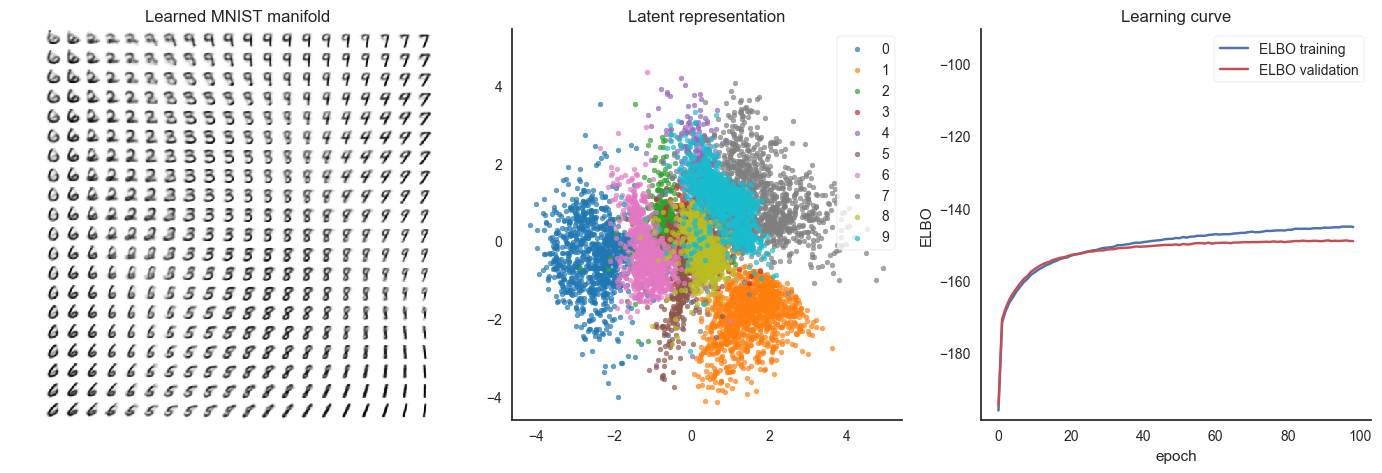
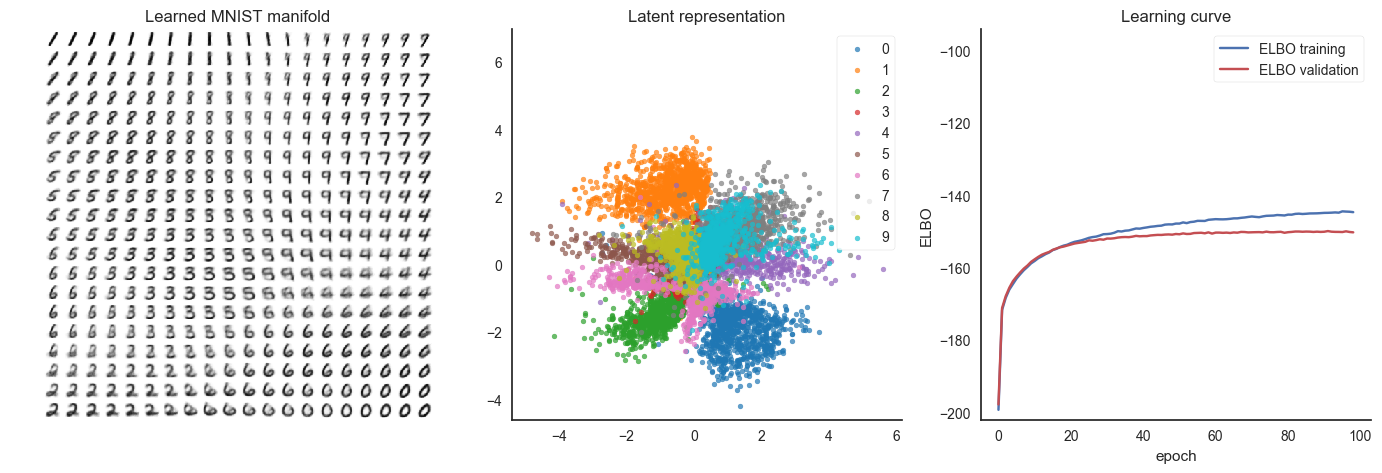
use keras to define layers

diff --git a/vae.py b/vae.py
@@ -9,6 +9,7 @@ import matplotlib as mpl
 import matplotlib.pyplot as plt
 from scipy.stats import norm
 
+from tensorflow.contrib.keras import layers
 from tensorflow.examples.tutorials.mnist import input_data
 
 
@@ -23,44 +24,41 @@ class VAE(object):
     The remaing architecture and algorithm is as close to the description in the paper as possible.
     """
 
-    def __init__(self, n_batch=100, n_input=784, n_latent=2, n_hidden=500, learning_rate=0.001, stddev_init=0.1,
-                 bias_init=0.1, n_epoch=100, seed=0, checkpoint_path='checkpoints/model.ckpt'):
+    def __init__(self, n_batch=100, n_latent=2, n_hidden=500, learning_rate=0.001, n_epoch=100, seed=0,
+                 checkpoint_path='checkpoints/model.ckpt'):
         """Initialize the object.
 
         Args:
             n_batch: Mini-batch size.
-            n_input: Input dimension of the data, default set to support MNIST.
             n_latent: Dimensionality of the latent variables.
             n_hidden: Number of hidden neurons.
             learning_rate: The initial learning rate of the optimization algorithm.
-            stddev_init: Standard deviation of the normal distribution that initializes all multiplicative weights.
-            bias_init: The constant value to initialize the biases.
             n_epoch: Number of epochs to train the autoencoder.
             seed: A random seed to create reproducible results.
             checkpoint_path: Path to the optimized model parameters.
         """
         self.n_batch = n_batch
-        self.n_input = n_input
         self.n_latent = n_latent
         self.n_hidden = n_hidden
         self.learning_rate = learning_rate
-        self.stddev_init = stddev_init
-        self.bias_init = bias_init
         self.n_epoch = n_epoch
         self.seed = seed
         self.checkpoint_path = checkpoint_path
 
         self.learning_curve = {'train': [], 'val': []}
-        self.graph = self._create_graph()  # Create the computational graph at initialization.
 
-    def _create_graph(self):
+    def _create_graph(self, n_input):
         """Creates the computational graph of the model.
+
+        Args:
+            n_input: Feature dimension of input data.
 
         Returns:
             The computational graph.
         """
         with tf.Graph().as_default() as graph:
             tf.set_random_seed(self.seed)
+            self.n_input = n_input
             self.loss = self._create_model()
             self.optimizer = self._create_optimizer(self.loss, self.learning_rate)
             self.initializer = tf.global_variables_initializer()
@@ -76,20 +74,6 @@ class VAE(object):
         """
         self.saver.restore(session, self.checkpoint_path)
 
-    def _create_weights(self, shape):
-        """Create weights for an affine transformation of the given shape.
-
-        Args:
-            shape: Shape of the affine transformation.
-
-        Returns:
-            Multiplicative weight and bias variables.
-
-        """
-        W = tf.Variable(tf.random_normal(shape, stddev=self.stddev_init))
-        b = tf.Variable(tf.constant(self.bias_init, shape=[shape[1]], dtype=tf.float32))
-        return W, b
-
     def _create_encoder(self, x):
         """Creates the encoder network.
 
@@ -103,13 +87,10 @@ class VAE(object):
             mu, log_sigma, sigma_squared and sigma, the mean and different transformations of the std. deviation sigma.
 
         """
-        W3, b3 = self._create_weights([self.n_input, self.n_hidden])
-        W4, b4 = self._create_weights([self.n_hidden, self.n_latent])
-        W5, b5 = self._create_weights([self.n_hidden, self.n_latent])
+        h = layers.Dense(self.n_hidden, activation='relu')(x)
+        mu = layers.Dense(self.n_latent)(h)
+        log_sigma_squared = layers.Dense(self.n_latent)(h)
 
-        h = tf.nn.relu(x @ W3 + b3)
-        mu = h @ W4 + b4
-        log_sigma_squared = h @ W5 + b5
         sigma_squared = tf.exp(log_sigma_squared)
         sigma = tf.sqrt(sigma_squared)
         return mu, log_sigma_squared, sigma_squared, sigma
@@ -125,10 +106,8 @@ class VAE(object):
         Returns:
             y_logit, the logit of the output y and y, the output variable in [0,1]^D.
         """
-        W1, b1 = self._create_weights([self.n_latent, self.n_hidden])
-        W2, b2 = self._create_weights([self.n_hidden, self.n_input])
-
-        y_logit = tf.nn.relu(z @ W1 + b1) @ W2 + b2
+        h = layers.Dense(self.n_hidden, activation='relu')(z)
+        y_logit = layers.Dense(self.n_input)(h)
         y = tf.sigmoid(y_logit)
         return y_logit, y
 
@@ -192,6 +171,7 @@ class VAE(object):
         Returns:
             The optimized model itself.
         """
+        self.graph = self._create_graph(n_input=train.images.shape[1])  # Create the computational graph.
         session = tf.Session(graph=self.graph)
         coord = tf.train.Coordinator()  # Lets tensorflow handle multiple threads.
         threads = tf.train.start_queue_runners(session, coord)
